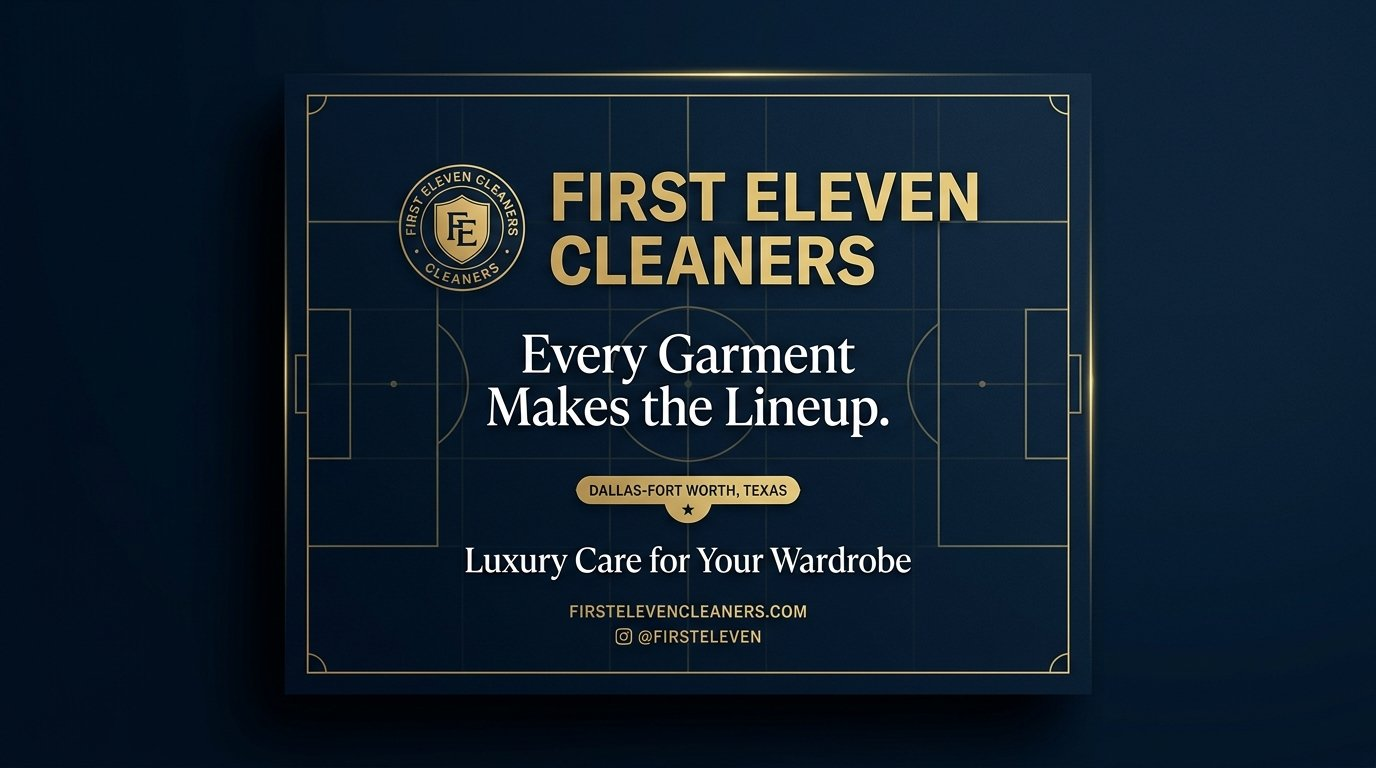
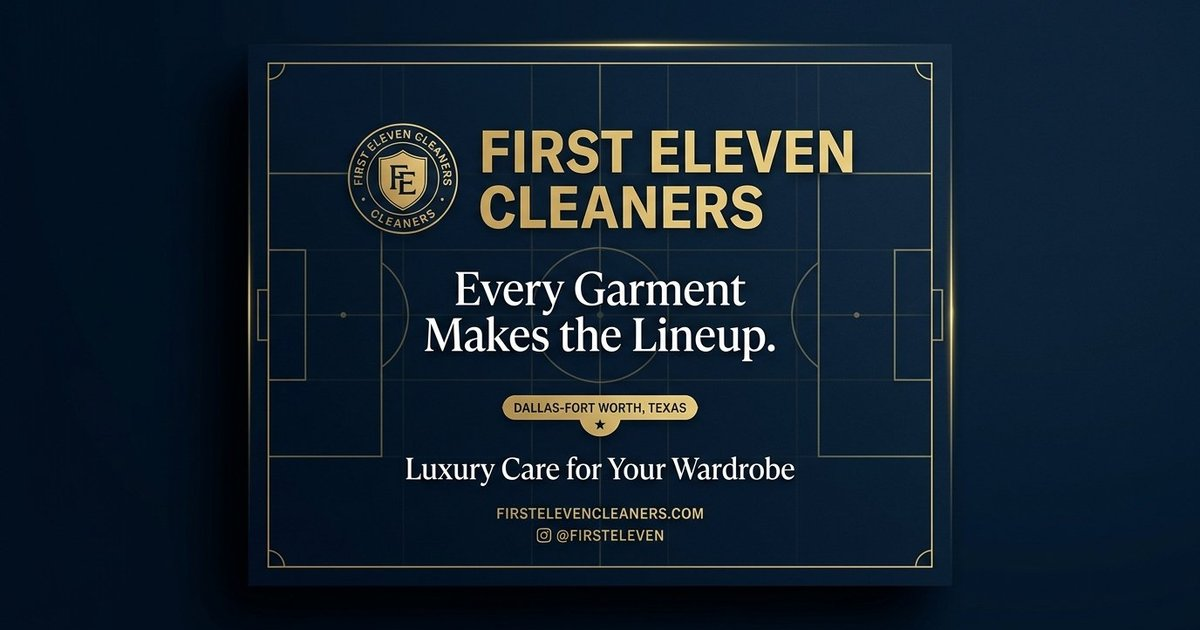
fix: every public page has its own complete link preview (P08 SEO-04)
No page had og:url. /about, /privacy and /terms shared with the
homepage's title and description, and every page sent the homepage's
Twitter title. Pages that set openGraph lost og:type, site_name and
locale (Next replaces the whole object). pageMetadata() in lib/seo.ts
now builds canonical, Open Graph and Twitter tags for all 8 public
pages. og-image.jpg was 1376x768 while declared 1200x630; it is now a
1200x630 centre crop of the same design (23px trimmed top and bottom).

diff --git a/web/tests/link-previews.test.ts b/web/tests/link-previews.test.ts
@@ -1,0 +1,74 @@
+import { describe, it, expect } from 'vitest';
+import { readFileSync } from 'node:fs';
+import { join } from 'node:path';
+import { pageMetadata } from '@/lib/seo';
+
+// ---------------------------------------------------------------------------
+// P08 SEO-04: every public page gets a complete, page-specific link preview
+// (og:url, title, description, type, site name, image) for OG and Twitter.
+// ---------------------------------------------------------------------------
+const WEB = join(__dirname, '..');
+
+/** Width and height from a JPEG's SOF marker. */
+function jpegSize(file: string): { width: number; height: number } {
+  const buf = readFileSync(file);
+  let i = 2;
+  while (i < buf.length) {
+    const marker = buf[i + 1];
+    const len = buf.readUInt16BE(i + 2);
+    if (marker >= 0xc0 && marker <= 0xc3) {
+      return { height: buf.readUInt16BE(i + 5), width: buf.readUInt16BE(i + 7) };
+    }
+    i += 2 + len;
+  }
+  throw new Error('no SOF marker');
+}
+
+const PUBLIC_PAGES: [path: string, file: string][] = [
+  ['/', 'src/app/page.tsx'],
+  ['/book', 'src/app/book/layout.tsx'],
+  ['/pricing', 'src/app/pricing/layout.tsx'],
+  ['/about', 'src/app/about/page.tsx'],
+  ['/commercial', 'src/app/commercial/layout.tsx'],
+  ['/service-areas', 'src/app/service-areas/page.tsx'],
+  ['/privacy', 'src/app/privacy/page.tsx'],
+  ['/terms', 'src/app/terms/page.tsx'],
+];
+
+describe('Complete link previews on public pages (P08 SEO-04)', () => {
+  it('pageMetadata fills every OG and Twitter field for the page', () => {
+    const m = pageMetadata({ path: '/about', title: 'Our Story', description: 'About us.', imageAlt: 'Alt' });
+    expect(m.alternates?.canonical).toBe('/about');
+    expect(m.openGraph).toMatchObject({
+      url: '/about',
+      type: 'website',
+      siteName: 'First Eleven Cleaners',
+      locale: 'en_US',
+      title: 'Our Story | First Eleven Cleaners',
+      description: 'About us.',
+      images: [{ url: '/og-image.jpg', width: 1200, height: 630, alt: 'Alt' }],
+    });
+    expect(m.twitter).toMatchObject({
+      card: 'summary_large_image',
+      title: 'Our Story | First Eleven Cleaners',
+      description: 'About us.',
+      images: ['/og-image.jpg'],
+    });
+  });
+
+  it('the homepage title is used as-is, without the brand suffix twice', () => {
+    const m = pageMetadata({ path: '/', title: 'First Eleven Cleaners | Home', description: 'd', imageAlt: 'a' });
+    expect(m.title).toEqual({ absolute: 'First Eleven Cleaners | Home' });
+    expect(m.openGraph?.title).toBe('First Eleven Cleaners | Home');
+  });
+
+  it.each(PUBLIC_PAGES)('%s builds its metadata with pageMetadata()', (path, file) => {
+    const src = readFileSync(join(WEB, file), 'utf8');
+    expect(src).toContain('pageMetadata({');
+    expect(src).toContain(`path: '${path}'`);
+  });
+
+  it('the share image really is 1200 x 630, as declared', () => {
+    expect(jpegSize(join(WEB, 'public', 'og-image.jpg'))).toEqual({ width: 1200, height: 630 });
+  });
+});

diff --git a/web/src/lib/seo.ts b/web/src/lib/seo.ts
@@ -1,3 +1,4 @@
+import type { Metadata } from 'next';
 import {
   APP_NAME,
   DRY_CLEAN_PRICES,
@@ -13,6 +14,48 @@ import {
  * read from env, so preview and local builds never emit their own host as canonical.
  */
 export const SITE_URL = 'https://www.firstelevencleaners.com';
+
+const OG_IMAGE = { url: '/og-image.jpg', width: 1200, height: 630 };
+
+/**
+ * Metadata for a public page (P08 SEO-04): canonical plus a complete Open Graph
+ * and Twitter preview, so no page inherits the homepage's share title. Paths are
+ * resolved against metadataBase (SITE_URL). The homepage passes its full title.
+ */
+export function pageMetadata({
+  path,
+  title,
+  description,
+  imageAlt,
+}: {
+  path: string;
+  title: string;
+  description: string;
+  imageAlt: string;
+}): Metadata {
+  const isHome = path === '/';
+  const shareTitle = isHome ? title : `${title} | ${APP_NAME}`;
+  return {
+    title: isHome ? { absolute: title } : title,
+    description,
+    alternates: { canonical: path },
+    openGraph: {
+      type: 'website',
+      locale: 'en_US',
+      siteName: APP_NAME,
+      url: path,
+      title: shareTitle,
+      description,
+      images: [{ ...OG_IMAGE, alt: imageAlt }],
+    },
+    twitter: {
+      card: 'summary_large_image',
+      title: shareTitle,
+      description,
+      images: [OG_IMAGE.url],
+    },
+  };
+}
 
 const phoneForSchema = (display: string) => {
   const d = display.replace(/\D/g, '');

diff --git a/web/src/app/service-areas/page.tsx b/web/src/app/service-areas/page.tsx
@@ -1,30 +1,16 @@
-import type { Metadata } from 'next';
+import { pageMetadata } from '@/lib/seo';
 import Link from 'next/link';
 import { Button, Card } from '@/components/ui';
 import { ROUTES, ZONES_LIST } from '@/lib/constants';
 import styles from './page.module.css';
 
-export const metadata: Metadata = {
-  alternates: {
-    canonical: '/service-areas',
-  },
+export const metadata = pageMetadata({
+  path: '/service-areas',
   title: 'DFW Pickup & Delivery Service Areas',
   description:
     'Full-coverage dry cleaning and wash-and-fold laundry pickup & delivery across Dallas, Plano, Frisco, Fort Worth, Highland Park, Southlake, and the entire DFW Metroplex.',
-  openGraph: {
-    title: 'DFW Pickup & Delivery Service Areas | First Eleven Cleaners',
-    description:
-      'Full-coverage dry cleaning and wash-and-fold laundry pickup & delivery across Dallas, Plano, Frisco, Fort Worth, Highland Park, Southlake, and the entire DFW Metroplex.',
-    images: [
-      {
-        url: '/og-image.jpg',
-        width: 1200,
-        height: 630,
-        alt: 'First Eleven Cleaners - Dallas–Fort Worth Service Areas',
-      },
-    ],
-  },
-};
+  imageAlt: 'First Eleven Cleaners - Dallas–Fort Worth Service Areas',
+});
 
 export default function ServiceAreasPage() {
   return (

diff --git a/web/src/app/pricing/layout.tsx b/web/src/app/pricing/layout.tsx
@@ -1,26 +1,12 @@
-import type { Metadata } from 'next';
+import { pageMetadata } from '@/lib/seo';
 
-export const metadata: Metadata = {
-  alternates: {
-    canonical: '/pricing',
-  },
+export const metadata = pageMetadata({
+  path: '/pricing',
   title: 'Laundry & Dry Cleaning Prices Dallas',
   description:
     'Transparent, published pricing for dry cleaning and wash-and-fold laundry pickup in Dallas–Fort Worth. $3.00/lb wash & fold ($45 min), dry cleaning from $8.99. Zero hidden fees.',
-  openGraph: {
-    title: 'Laundry & Dry Cleaning Prices Dallas | First Eleven Cleaners',
-    description:
-      'Transparent, published pricing for dry cleaning and wash-and-fold laundry pickup in Dallas–Fort Worth. $3.00/lb wash & fold ($45 min), dry cleaning from $8.99. Zero hidden fees.',
-    images: [
-      {
-        url: '/og-image.jpg',
-        width: 1200,
-        height: 630,
-        alt: 'First Eleven Cleaners - Laundry & Dry Cleaning Pricing in Dallas–Fort Worth',
-      },
-    ],
-  },
-};
+  imageAlt: 'First Eleven Cleaners - Laundry & Dry Cleaning Pricing in Dallas–Fort Worth',
+});
 
 export default function PricingLayout({
   children,

diff --git a/web/src/app/commercial/layout.tsx b/web/src/app/commercial/layout.tsx
@@ -1,26 +1,12 @@
-import type { Metadata } from 'next';
+import { pageMetadata } from '@/lib/seo';
 
-export const metadata: Metadata = {
-  alternates: {
-    canonical: '/commercial',
-  },
+export const metadata = pageMetadata({
+  path: '/commercial',
   title: 'Commercial B2B Laundry & Dry Cleaning',
   description:
     'SLA-backed B2B dry cleaning and commercial laundry programs for Dallas–Fort Worth businesses, hotels, salons, and athletic facilities. Certified MBE, SDVOSB, Veteran-HUB, DBE.',
-  openGraph: {
-    title: 'Commercial B2B Laundry & Dry Cleaning | First Eleven Cleaners',
-    description:
-      'SLA-backed B2B dry cleaning and commercial laundry programs for Dallas–Fort Worth businesses, hotels, salons, and athletic facilities. Certified MBE, SDVOSB, Veteran-HUB, DBE.',
-    images: [
-      {
-        url: '/og-image.jpg',
-        width: 1200,
-        height: 630,
-        alt: 'First Eleven Cleaners - Commercial B2B Laundry & Dry Cleaning Programs',
-      },
-    ],
-  },
-};
+  imageAlt: 'First Eleven Cleaners - Commercial B2B Laundry & Dry Cleaning Programs',
+});
 
 export default function CommercialLayout({
   children,

diff --git a/web/src/app/book/layout.tsx b/web/src/app/book/layout.tsx
@@ -1,26 +1,12 @@
-import type { Metadata } from 'next';
+import { pageMetadata } from '@/lib/seo';
 
-export const metadata: Metadata = {
-  alternates: {
-    canonical: '/book',
-  },
+export const metadata = pageMetadata({
+  path: '/book',
   title: 'Schedule Laundry Pickup & Delivery',
   description:
     'Schedule premium dry cleaning and wash-and-fold laundry pickup across Dallas–Fort Worth. Choose morning or evening windows. 48-hour Match-Ready turnaround.',
-  openGraph: {
-    title: 'Schedule Laundry Pickup & Delivery | First Eleven Cleaners',
-    description:
-      'Schedule premium dry cleaning and wash-and-fold laundry pickup across Dallas–Fort Worth. Choose morning or evening windows. 48-hour Match-Ready turnaround.',
-    images: [
-      {
-        url: '/og-image.jpg',
-        width: 1200,
-        height: 630,
-        alt: 'First Eleven Cleaners - Schedule Laundry Pickup & Delivery',
-      },
-    ],
-  },
-};
+  imageAlt: 'First Eleven Cleaners - Schedule Laundry Pickup & Delivery',
+});
 
 export default function BookLayout({
   children,

diff --git a/web/src/app/terms/page.tsx b/web/src/app/terms/page.tsx
@@ -1,15 +1,15 @@
-import type { Metadata } from 'next';
+import { pageMetadata } from '@/lib/seo';
 import Link from 'next/link';
 import { ROUTES, APP_NAME } from '@/lib/constants';
 import styles from './page.module.css';
 
-export const metadata: Metadata = {
-  alternates: {
-    canonical: '/terms',
-  },
+export const metadata = pageMetadata({
+  path: '/terms',
   title: 'Terms of Service',
-  description: 'First Eleven Cleaners Terms of Service. Governing law, garment care guarantees, liability limitations, and operational policies across Dallas-Fort Worth.',
-};
+  description:
+    'First Eleven Cleaners Terms of Service. Governing law, garment care guarantees, liability limitations, and operational policies across Dallas-Fort Worth.',
+  imageAlt: 'First Eleven Cleaners - Terms of Service',
+});
 
 export default function TermsOfServicePage() {
   return (

diff --git a/web/src/app/about/page.tsx b/web/src/app/about/page.tsx
@@ -1,17 +1,16 @@
-import type { Metadata } from 'next';
+import { pageMetadata } from '@/lib/seo';
 import Link from 'next/link';
 import { Button } from '@/components/ui';
 import { ROUTES } from '@/lib/constants';
 import styles from './page.module.css';
 
-export const metadata: Metadata = {
-  alternates: {
-    canonical: '/about',
-  },
+export const metadata = pageMetadata({
+  path: '/about',
   title: 'Our FIFA World Cup IBC Story',
   description:
     'Every Garment Makes the Lineup. Born at the FIFA World Cup 2026 IBC in Dallas. First Eleven Cleaners is a veteran-owned, minority-certified premium dry cleaning and laundry service serving the Dallas-Fort Worth Metroplex.',
-};
+  imageAlt: 'First Eleven Cleaners - Our FIFA World Cup IBC Story',
+});
 
 const CERTIFICATIONS = [
   { code: 'MBE', label: 'Minority Business Enterprise', icon: '🏅' },

diff --git a/web/src/app/privacy/page.tsx b/web/src/app/privacy/page.tsx
@@ -1,15 +1,15 @@
-import type { Metadata } from 'next';
+import { pageMetadata } from '@/lib/seo';
 import Link from 'next/link';
 import { ROUTES, APP_NAME } from '@/lib/constants';
 import styles from './page.module.css';
 
-export const metadata: Metadata = {
-  alternates: {
-    canonical: '/privacy',
-  },
+export const metadata = pageMetadata({
+  path: '/privacy',
   title: 'Privacy Policy',
-  description: 'First Eleven Cleaners Privacy Policy. How we collect, use, and protect your information across Dallas-Fort Worth.',
-};
+  description:
+    'First Eleven Cleaners Privacy Policy. How we collect, use, and protect your information across Dallas-Fort Worth.',
+  imageAlt: 'First Eleven Cleaners - Privacy Policy',
+});
 
 export default function PrivacyPolicyPage() {
   return (

diff --git a/web/src/app/page.tsx b/web/src/app/page.tsx
@@ -8,6 +8,15 @@ import {
 } from '@/lib/constants';
 import { Button } from '@/components/ui';
 import styles from './page.module.css';
+import { pageMetadata } from '@/lib/seo';
+
+export const metadata = pageMetadata({
+  path: '/',
+  title: 'First Eleven Cleaners | Dry Cleaning & Laundry Pickup in Dallas–Fort Worth',
+  description:
+    'Every Garment Makes the Lineup. Premium AI-augmented dry cleaning and laundry pickup & delivery across the Dallas-Fort Worth Metroplex. 48-hour Match-Ready guarantee.',
+  imageAlt: 'First Eleven Cleaners - Every Garment Makes the Lineup',
+});
 
 export default function HomePage() {
   return (
